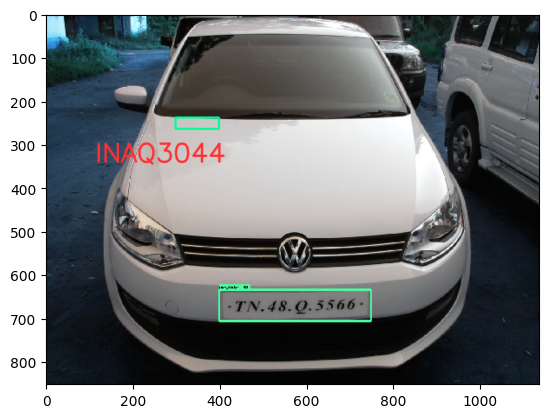
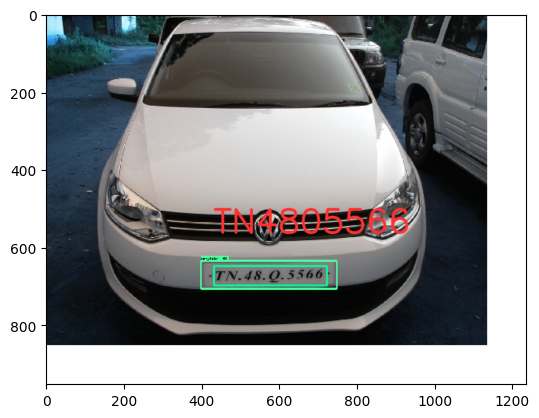
checkpoint

diff --git a/README.md b/README.md
@@ -75,12 +75,12 @@ print(response)
     @batch: 
                                                      0
     0  UDF LicensePlateExtractor successfully dropped
-    @query_time: 0.022490965900942683
+    @query_time: 0.021781272953376174
     @status: ResponseStatus.SUCCESS
     @batch: 
                                                                     0
     0  UDF LicensePlateExtractor successfully added to the database.
-    @query_time: 6.094991956138983
+    @query_time: 6.117155366810039
 
 
 # Download Images or Videos for License Plate Recognition
@@ -92,6 +92,7 @@ print(response)
 !wget -nc "https://raw.githubusercontent.com/femioladeji/License-Plate-Recognition-Nigerian-vehicles/master/test_images/car10.jpg"
 !wget -nc "https://raw.githubusercontent.com/femioladeji/License-Plate-Recognition-Nigerian-vehicles/master/test_images/car6.jpg"
 !wget -nc "https://im.ezgif.com/tmp/ezgif-1-c32008dd2a-jpg/ezgif-frame-001.jpg"
+!wget -nc "https://i.ytimg.com/vi/p91epBEfISk/maxresdefault.jpg"
 
 # DOWNLOAD ADDITIONAL IMAGES IF NEEDED AND LOAD THEM HERE
 
@@ -118,6 +119,9 @@ cursor.execute('LOAD IMAGE "car6.jpg" INTO MyImages;')
 response = cursor.fetch_all()
 print(response)
 cursor.execute('LOAD IMAGE "ezgif-frame-001.jpg" INTO MyImages;')
+response = cursor.fetch_all()
+print(response)
+cursor.execute('LOAD IMAGE "maxresdefault.jpg" INTO MyImages;')
 response = cursor.fetch_all()
 print(response)
 
@@ -160,36 +164,43 @@ print(response2)
     
     File ‘ezgif-frame-001.jpg’ already there; not retrieving.
     
+    File ‘maxresdefault.jpg’ already there; not retrieving.
+    
     @status: ResponseStatus.SUCCESS
     @batch: 
                                            0
     0  Table Successfully dropped: MyImages
-    @query_time: 0.04336433485150337
+    @query_time: 0.044570326106622815
     @status: ResponseStatus.SUCCESS
     @batch: 
                                 0
     0  Number of loaded IMAGE: 1
-    @query_time: 0.06612796895205975
+    @query_time: 0.06453206902369857
     @status: ResponseStatus.SUCCESS
     @batch: 
                                 0
     0  Number of loaded IMAGE: 1
-    @query_time: 0.01945077395066619
+    @query_time: 0.019328153925016522
     @status: ResponseStatus.SUCCESS
     @batch: 
                                 0
     0  Number of loaded IMAGE: 1
-    @query_time: 0.016384931979700923
+    @query_time: 0.016461054794490337
     @status: ResponseStatus.SUCCESS
     @batch: 
                                 0
     0  Number of loaded IMAGE: 1
-    @query_time: 0.02037842688150704
+    @query_time: 0.018691211938858032
     @status: ResponseStatus.SUCCESS
     @batch: 
                                 0
     0  Number of loaded IMAGE: 1
-    @query_time: 0.11066173296421766
+    @query_time: 0.12282829103060067
+    @status: ResponseStatus.SUCCESS
+    @batch: 
+                                0
+    0  Number of loaded IMAGE: 1
+    @query_time: 0.023271142039448023
     @status: ResponseStatus.SUCCESS
     @batch: 
        licenseplateextractor.labels  \
@@ -198,6 +209,7 @@ print(response2)
     2                   [EGB62644]   
     3                   [LEM446A4]   
     4        [4II982A7A, 770L7726]   
+    5     [LPD7SRV616, IPD8NBZ548]   
     
                                                                               licenseplateextractor.bboxes  \
     0                                                   [[[432, 648], [723, 648], [723, 698], [432, 698]]]   
@@ -205,6 +217,7 @@ print(response2)
     2                                                   [[[178, 430], [300, 430], [300, 462], [178, 462]]]   
     3                                                   [[[263, 465], [383, 465], [383, 501], [263, 501]]]   
     4  [[[2263, 398], [2347, 398], [2347, 436], [2263, 436]], [[216.02985749985467, 829.1194299994187],...   
+    5  [[[236, 372], [344, 372], [344, 396], [236, 396]], [[986, 536], [1100, 536], [1100, 560], [986, ...   
     
                        licenseplateextractor.scores  
     0                           [0.765264012834225]  
@@ -212,19 +225,20 @@ print(response2)
     2                          [0.8205181373232121]  
     3                         [0.37683450003837526]  
     4  [0.005999226930693703, 0.041628318390644674]  
-    @query_time: 6.133099450962618
+    5      [0.3380678860228084, 0.8426790601376755]  
+    @query_time: 6.468493198044598
     File ‘video12.mp4’ already there; not retrieving.
     
     @status: ResponseStatus.SUCCESS
     @batch: 
                                            0
     0  Table Successfully dropped: MyVideos
-    @query_time: 0.03416454792022705
+    @query_time: 0.03346487390808761
     @status: ResponseStatus.SUCCESS
     @batch: 
                                 0
     0  Number of loaded VIDEO: 1
-    @query_time: 0.10247574001550674
+    @query_time: 0.11669299798086286
     @status: ResponseStatus.SUCCESS
     @batch: 
        licenseplateextractor.labels  \
@@ -235,7 +249,7 @@ print(response2)
     
       licenseplateextractor.scores  
     0         [0.5929218894477851]  
-    @query_time: 5.535594867076725
+    @query_time: 5.811167005915195
 
 
 ### Annotate Model Output on Image
@@ -277,12 +291,8 @@ def annotate_image_ocr(detections, input_image_path, frame_id):
             cv2.rectangle(frame, (x1, y1), (x2, y2), color1, thickness) 
 
             # object label
-            if width < 1200:
-                cv2.putText(frame, label, (int(x_offset), int(y_offset)), cv2.FONT_HERSHEY_SIMPLEX, 2, color2, thickness, cv2.LINE_AA) 
-                y_offset = y_offset + height * 0.2
-            else:
-                cv2.putText(frame, label, (int(x_offset), int(y_offset)), cv2.FONT_HERSHEY_SIMPLEX, 6, color2, thickness * 3, cv2.LINE_AA) 
-                y_offset = y_offset + height * 0.1
+            cv2.putText(frame, label, (int(x1), int(y1 - height * 0.1)), cv2.FONT_HERSHEY_SIMPLEX, (6 * width)/2400, color2, 
+                                  int((12 * width)/2400), cv2.LINE_AA) 
 
             # Show every  frame
             plt.imshow(frame)
@@ -298,11 +308,12 @@ def annotate_image_ocr(detections, input_image_path, frame_id):
 
 ```python
 dataframe = response.batch.frames
-annotate_image_ocr(dataframe, 'test_image_1.png', frame_id = 1)
-annotate_image_ocr(dataframe, 'test_image_2.png', frame_id = 2)
-annotate_image_ocr(dataframe, 'car10.jpg', frame_id = 3)
-annotate_image_ocr(dataframe, 'car6.jpg', frame_id = 4)
-annotate_image_ocr(dataframe, 'ezgif-frame-001.jpg', frame_id = 5)
+annotate_image_ocr(dataframe, 'test_image_1.png', frame_id = 0)
+annotate_image_ocr(dataframe, 'test_image_2.png', frame_id = 1)
+annotate_image_ocr(dataframe, 'car10.jpg', frame_id = 2)
+annotate_image_ocr(dataframe, 'car6.jpg', frame_id = 3)
+annotate_image_ocr(dataframe, 'ezgif-frame-001.jpg', frame_id = 4)
+annotate_image_ocr(dataframe, 'maxresdefault.jpg', frame_id = 5)
 ```
 
       licenseplateextractor.labels  \
@@ -311,6 +322,7 @@ annotate_image_ocr(dataframe, 'ezgif-frame-001.jpg', frame_id = 5)
     2                   [EGB62644]   
     3                   [LEM446A4]   
     4        [4II982A7A, 770L7726]   
+    5     [LPD7SRV616, IPD8NBZ548]   
     
                             licenseplateextractor.bboxes  \
     0  [[[432, 648], [723, 648], [723, 698], [432, 69...   
@@ -318,6 +330,7 @@ annotate_image_ocr(dataframe, 'ezgif-frame-001.jpg', frame_id = 5)
     2  [[[178, 430], [300, 430], [300, 462], [178, 46...   
     3  [[[263, 465], [383, 465], [383, 501], [263, 50...   
     4  [[[2263, 398], [2347, 398], [2347, 436], [2263...   
+    5  [[[236, 372], [344, 372], [344, 396], [236, 39...   
     
                        licenseplateextractor.scores  
     0                           [0.765264012834225]  
@@ -325,6 +338,7 @@ annotate_image_ocr(dataframe, 'ezgif-frame-001.jpg', frame_id = 5)
     2                          [0.8205181373232121]  
     3                         [0.37683450003837526]  
     4  [0.005999226930693703, 0.041628318390644674]  
+    5      [0.3380678860228084, 0.8426790601376755]  
 
 
 
@@ -339,6 +353,7 @@ annotate_image_ocr(dataframe, 'ezgif-frame-001.jpg', frame_id = 5)
     2                   [EGB62644]   
     3                   [LEM446A4]   
     4        [4II982A7A, 770L7726]   
+    5     [LPD7SRV616, IPD8NBZ548]   
     
                             licenseplateextractor.bboxes  \
     0  [[[432, 648], [723, 648], [723, 698], [432, 69...   
@@ -346,6 +361,7 @@ annotate_image_ocr(dataframe, 'ezgif-frame-001.jpg', frame_id = 5)
     2  [[[178, 430], [300, 430], [300, 462], [178, 46...   
     3  [[[263, 465], [383, 465], [383, 501], [263, 50...   
     4  [[[2263, 398], [2347, 398], [2347, 436], [2263...   
+    5  [[[236, 372], [344, 372], [344, 396], [236, 39...   
     
                        licenseplateextractor.scores  
     0                           [0.765264012834225]  
@@ -353,6 +369,7 @@ annotate_image_ocr(dataframe, 'ezgif-frame-001.jpg', frame_id = 5)
     2                          [0.8205181373232121]  
     3                         [0.37683450003837526]  
     4  [0.005999226930693703, 0.041628318390644674]  
+    5      [0.3380678860228084, 0.8426790601376755]  
 
 
 
@@ -367,6 +384,7 @@ annotate_image_ocr(dataframe, 'ezgif-frame-001.jpg', frame_id = 5)
     2                   [EGB62644]   
     3                   [LEM446A4]   
     4        [4II982A7A, 770L7726]   
+    5     [LPD7SRV616, IPD8NBZ548]   
     
                             licenseplateextractor.bboxes  \
     0  [[[432, 648], [723, 648], [723, 698], [432, 69...   
@@ -374,6 +392,7 @@ annotate_image_ocr(dataframe, 'ezgif-frame-001.jpg', frame_id = 5)
     2  [[[178, 430], [300, 430], [300, 462], [178, 46...   
     3  [[[263, 465], [383, 465], [383, 501], [263, 50...   
     4  [[[2263, 398], [2347, 398], [2347, 436], [2263...   
+    5  [[[236, 372], [344, 372], [344, 396], [236, 39...   
     
                        licenseplateextractor.scores  
     0                           [0.765264012834225]  
@@ -381,6 +400,7 @@ annotate_image_ocr(dataframe, 'ezgif-frame-001.jpg', frame_id = 5)
     2                          [0.8205181373232121]  
     3                         [0.37683450003837526]  
     4  [0.005999226930693703, 0.041628318390644674]  
+    5      [0.3380678860228084, 0.8426790601376755]  
 
 
 
@@ -395,6 +415,7 @@ annotate_image_ocr(dataframe, 'ezgif-frame-001.jpg', frame_id = 5)
     2                   [EGB62644]   
     3                   [LEM446A4]   
     4        [4II982A7A, 770L7726]   
+    5     [LPD7SRV616, IPD8NBZ548]   
     
                             licenseplateextractor.bboxes  \
     0  [[[432, 648], [723, 648], [723, 698], [432, 69...   
@@ -402,6 +423,7 @@ annotate_image_ocr(dataframe, 'ezgif-frame-001.jpg', frame_id = 5)
     2  [[[178, 430], [300, 430], [300, 462], [178, 46...   
     3  [[[263, 465], [383, 465], [383, 501], [263, 50...   
     4  [[[2263, 398], [2347, 398], [2347, 436], [2263...   
+    5  [[[236, 372], [344, 372], [344, 396], [236, 39...   
     
                        licenseplateextractor.scores  
     0                           [0.765264012834225]  
@@ -409,17 +431,12 @@ annotate_image_ocr(dataframe, 'ezgif-frame-001.jpg', frame_id = 5)
     2                          [0.8205181373232121]  
     3                         [0.37683450003837526]  
     4  [0.005999226930693703, 0.041628318390644674]  
+    5      [0.3380678860228084, 0.8426790601376755]  
 
 
 
     
 ![png](README_files/README_12_7.png)
-    
-
-
-
-    
-![png](README_files/README_12_8.png)
     
 
 
@@ -429,6 +446,7 @@ annotate_image_ocr(dataframe, 'ezgif-frame-001.jpg', frame_id = 5)
     2                   [EGB62644]   
     3                   [LEM446A4]   
     4        [4II982A7A, 770L7726]   
+    5     [LPD7SRV616, IPD8NBZ548]   
     
                             licenseplateextractor.bboxes  \
     0  [[[432, 648], [723, 648], [723, 698], [432, 69...   
@@ -436,6 +454,7 @@ annotate_image_ocr(dataframe, 'ezgif-frame-001.jpg', frame_id = 5)
     2  [[[178, 430], [300, 430], [300, 462], [178, 46...   
     3  [[[263, 465], [383, 465], [383, 501], [263, 50...   
     4  [[[2263, 398], [2347, 398], [2347, 436], [2263...   
+    5  [[[236, 372], [344, 372], [344, 396], [236, 39...   
     
                        licenseplateextractor.scores  
     0                           [0.765264012834225]  
@@ -443,6 +462,56 @@ annotate_image_ocr(dataframe, 'ezgif-frame-001.jpg', frame_id = 5)
     2                          [0.8205181373232121]  
     3                         [0.37683450003837526]  
     4  [0.005999226930693703, 0.041628318390644674]  
+    5      [0.3380678860228084, 0.8426790601376755]  
+
+
+
+    
+![png](README_files/README_12_9.png)
+    
+
+
+
+    
+![png](README_files/README_12_10.png)
+    
+
+
+      licenseplateextractor.labels  \
+    0                  [TN4805566]   
+    1                   [INAQ3044]   
+    2                   [EGB62644]   
+    3                   [LEM446A4]   
+    4        [4II982A7A, 770L7726]   
+    5     [LPD7SRV616, IPD8NBZ548]   
+    
+                            licenseplateextractor.bboxes  \
+    0  [[[432, 648], [723, 648], [723, 698], [432, 69...   
+    1  [[[298, 238], [398, 238], [398, 264], [298, 26...   
+    2  [[[178, 430], [300, 430], [300, 462], [178, 46...   
+    3  [[[263, 465], [383, 465], [383, 501], [263, 50...   
+    4  [[[2263, 398], [2347, 398], [2347, 436], [2263...   
+    5  [[[236, 372], [344, 372], [344, 396], [236, 39...   
+    
+                       licenseplateextractor.scores  
+    0                           [0.765264012834225]  
+    1                          [0.5979598335637649]  
+    2                          [0.8205181373232121]  
+    3                         [0.37683450003837526]  
+    4  [0.005999226930693703, 0.041628318390644674]  
+    5      [0.3380678860228084, 0.8426790601376755]  
+
+
+
+    
+![png](README_files/README_12_12.png)
+    
+
+
+
+    
+![png](README_files/README_12_13.png)
+    
 
 
 ## Annotate Model Output on Video
